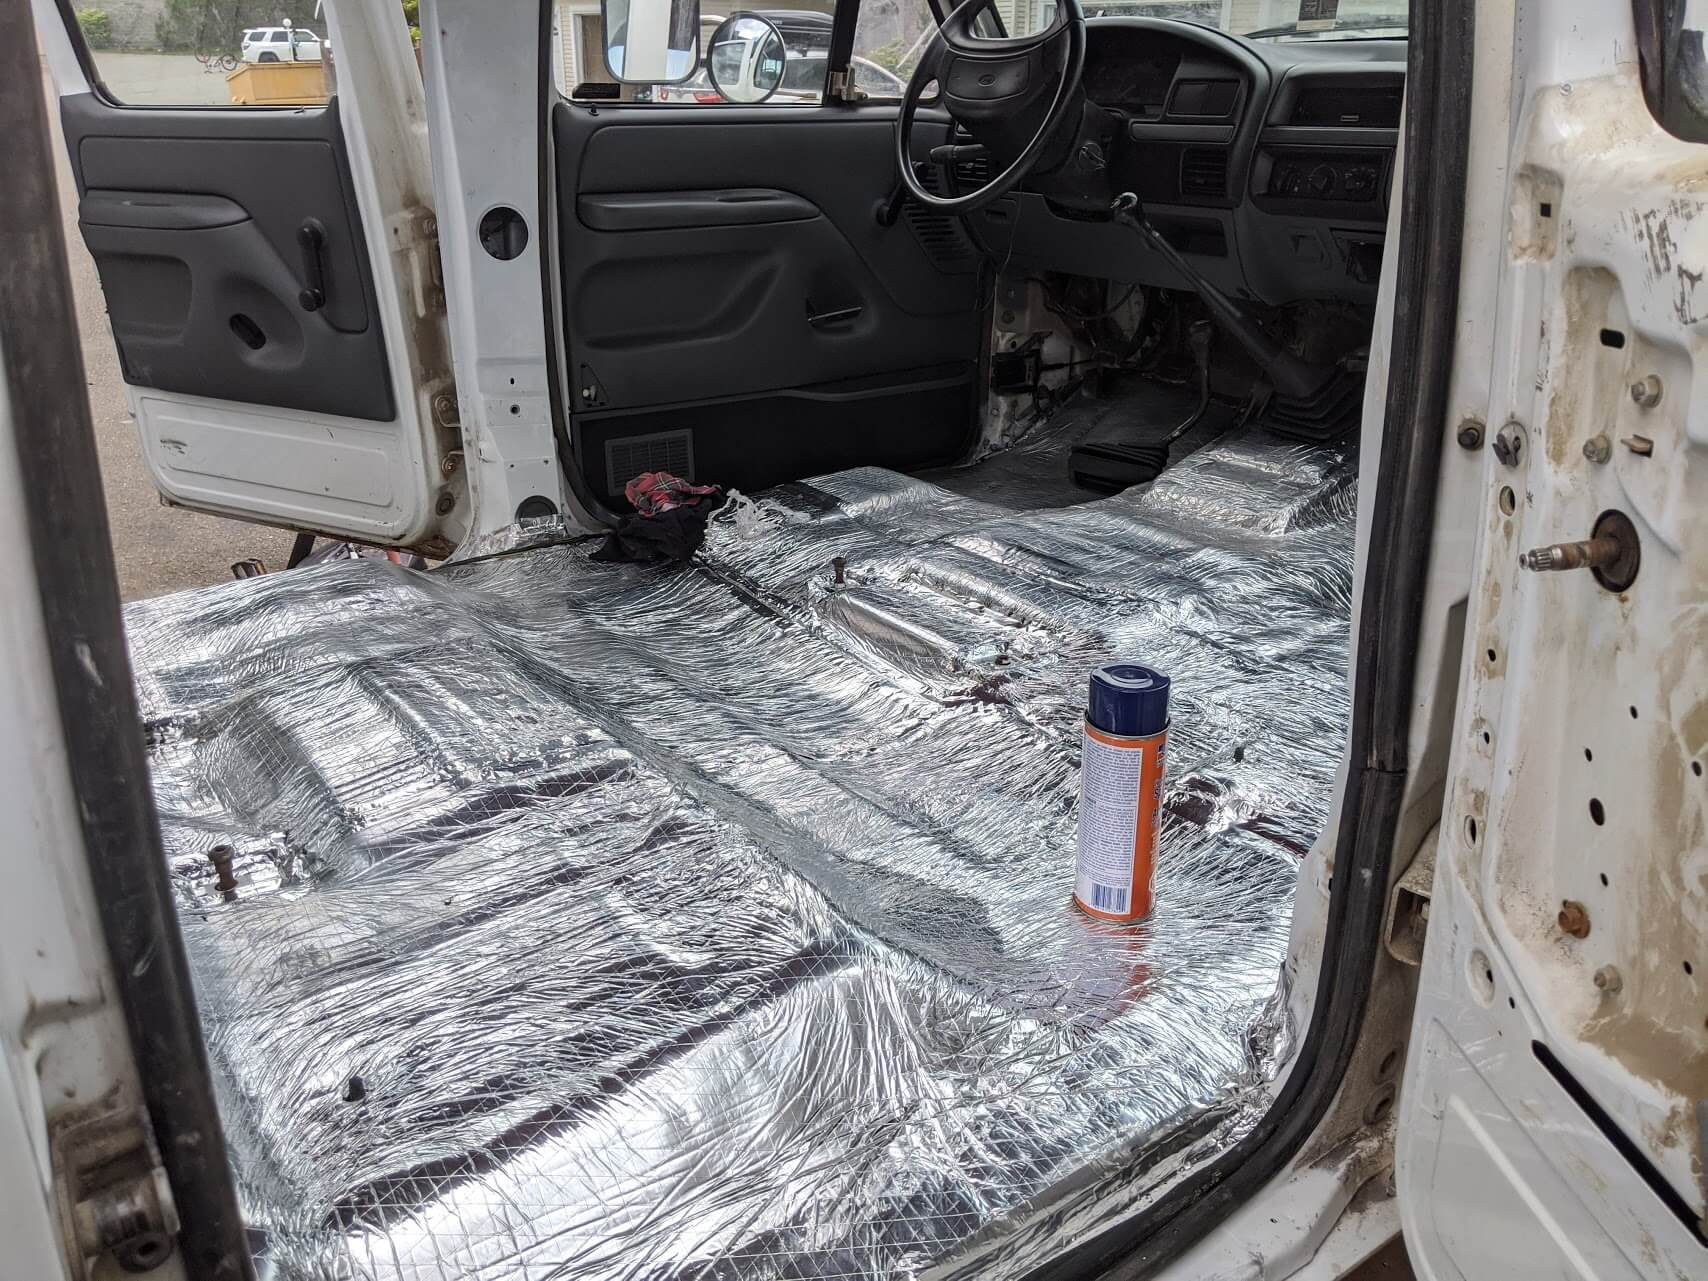
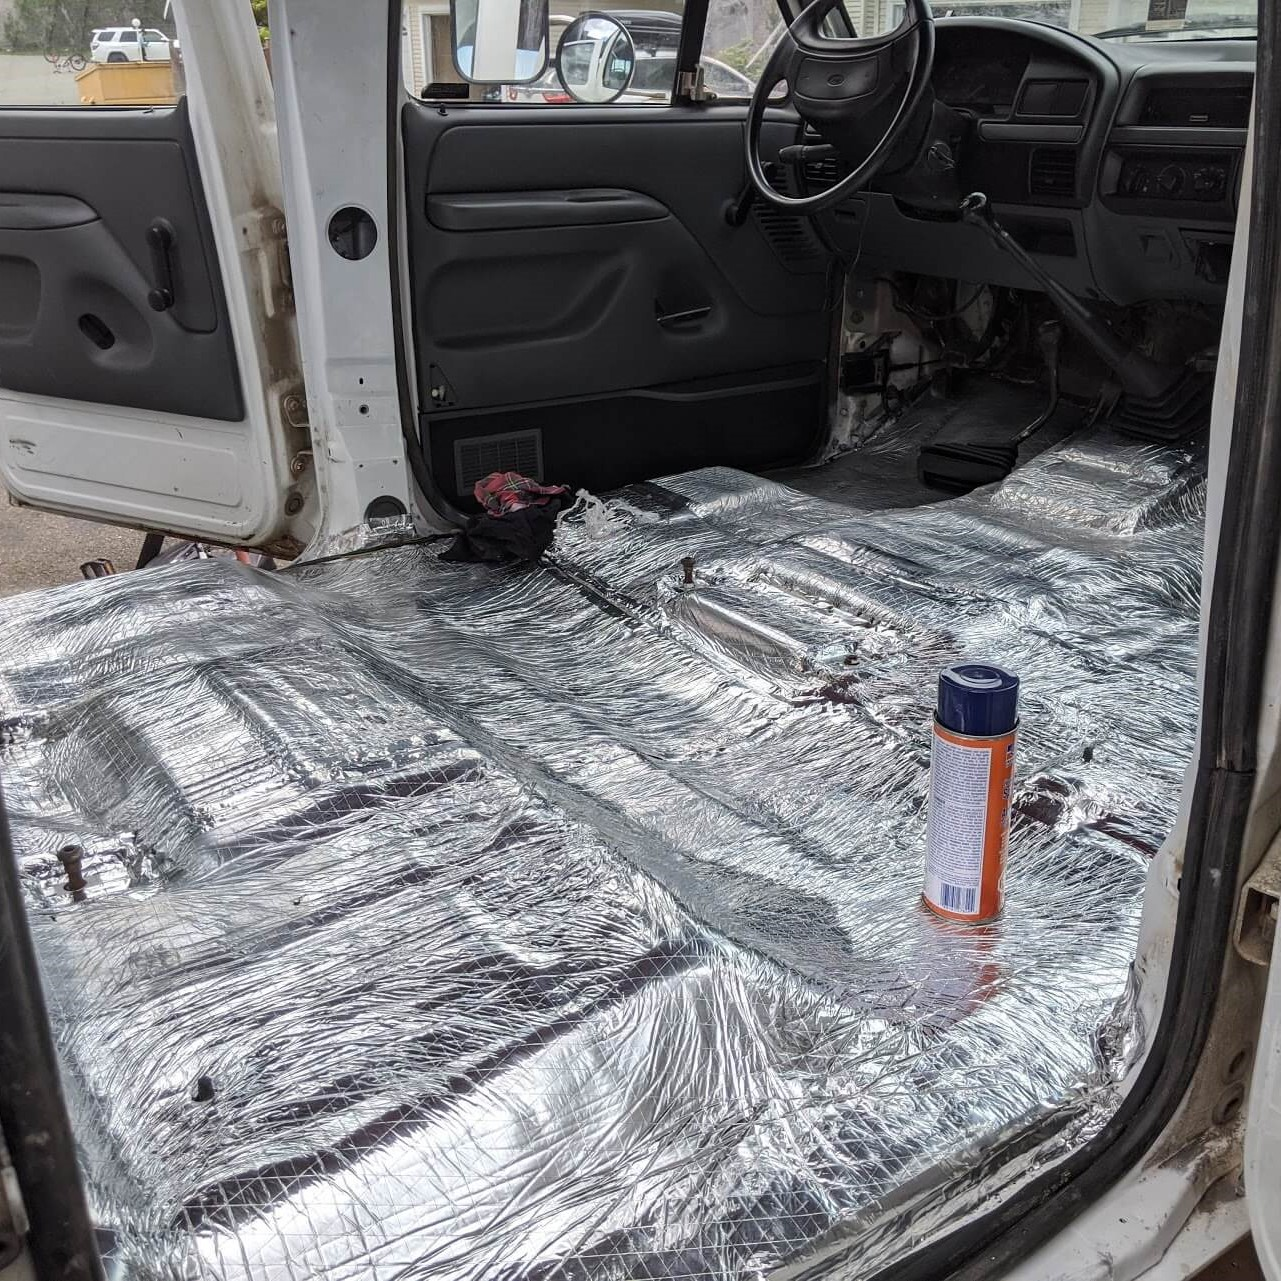
Truck photo

diff --git a/projects.html b/projects.html
@@ -92,7 +92,7 @@
                             alt=""></a></div>
             </li>
             <li>
-                <div class="cell box7"><a href="#" title="Default"><img src="..\images\project-images\craft_table.jpg"
+                <div class="cell box7"><a href="#" title="7.3 Interior Overhaul"><img src="..\images\project-images\truck_gutted.jpg"
                             alt=""></a></div>
             </li>
             <li>
